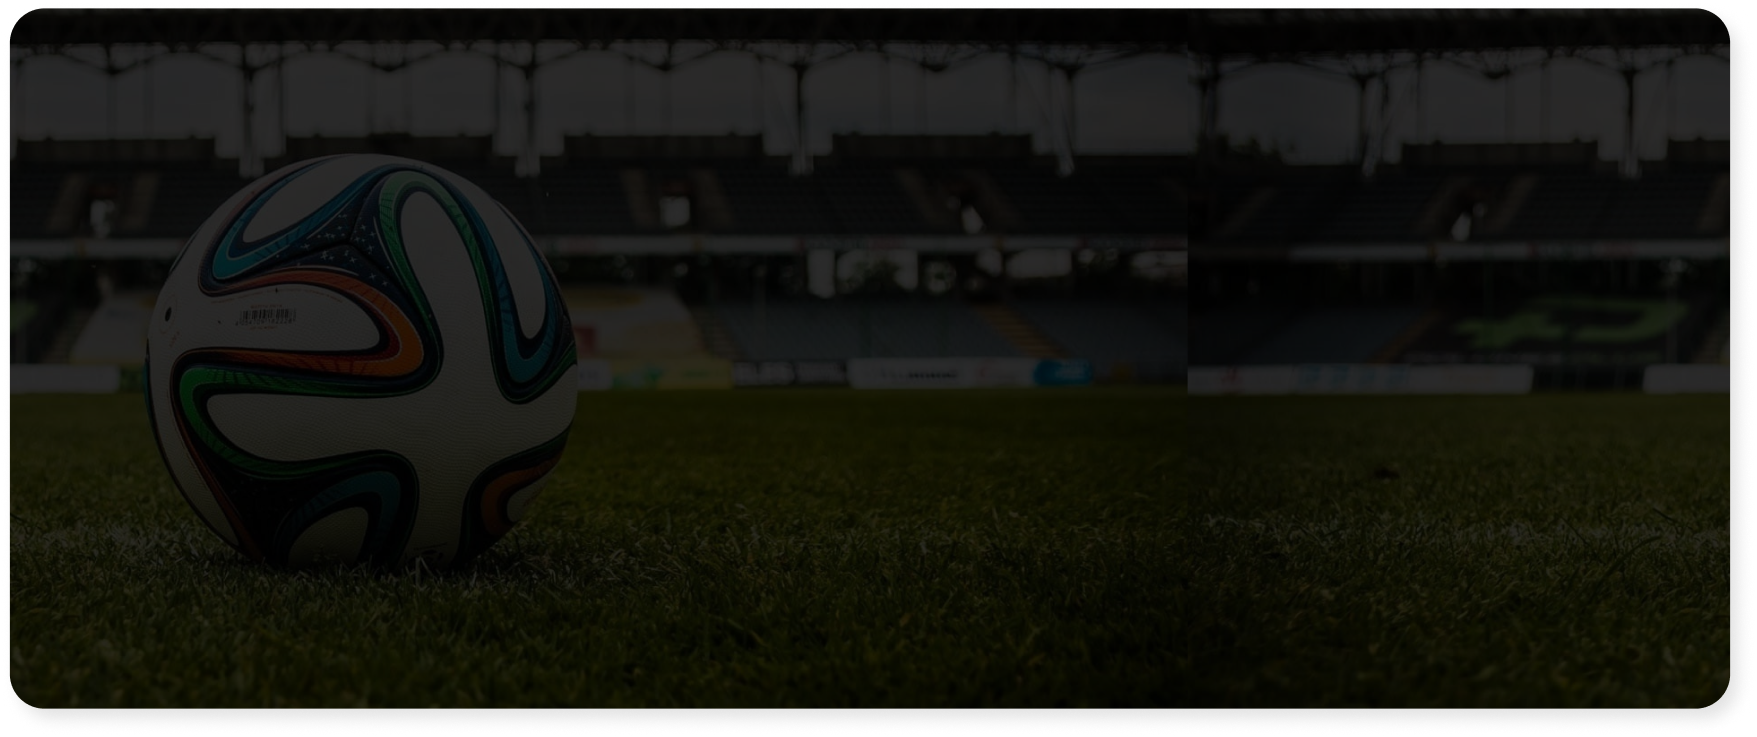
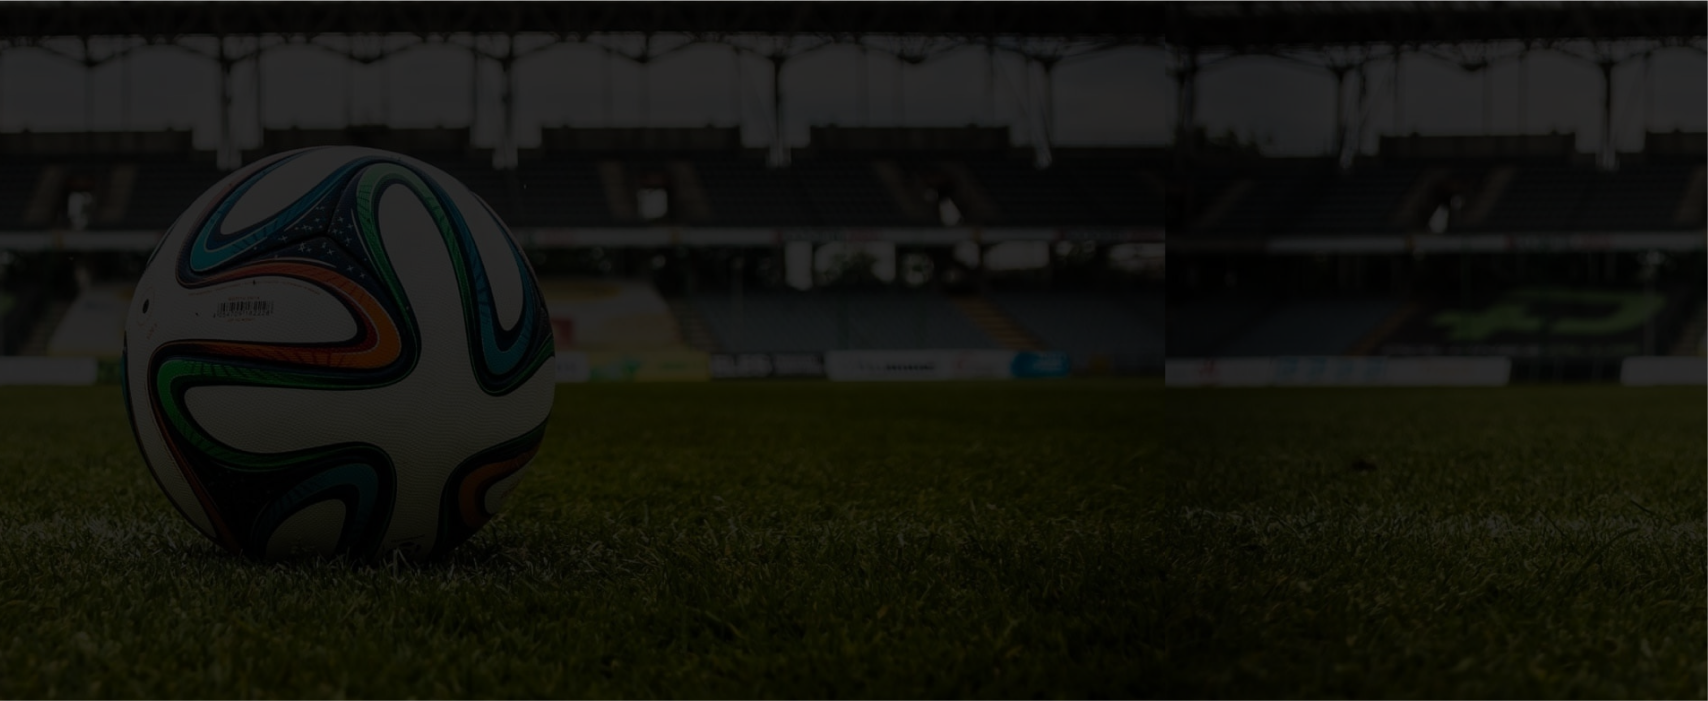
update: qu-section updated

diff --git a/frontend/sections/SevicesSecion.tsx b/frontend/sections/SevicesSecion.tsx
@@ -52,7 +52,7 @@ const SevicesSecion = () => {
         src="/images/banners/banner-1.png"
       />
 
-      <div className="relative z-10 mx-auto -mt-12 max-w-5xl rounded-3xl bg-white p-4 text-center">
+      <div className="relative z-10 mx-auto mt-4 max-w-5xl rounded-3xl bg-white p-4 text-center md:-mt-12">
         <Carousel
           ssr
           infinite
@@ -71,7 +71,7 @@ const SevicesSecion = () => {
                 src={image}
                 className="mx-auto h-8 drop-shadow md:h-14"
               />
-              <p className="mt-2"> {text}</p>
+              <p className="mt-2 text-sm">{text}</p>
             </div>
           ))}
         </Carousel>

diff --git a/frontend/sections/QrBannerSection.tsx b/frontend/sections/QrBannerSection.tsx
@@ -46,7 +46,7 @@ const QrBannerSection = () => {
           width={224}
           height={224}
           className="mx-auto w-56"
-          src="/images/banners/player-login-qr-code.png"
+          src="/images/banners/player-login-qr-code.svg"
         />
         <p>OR</p>
         <LinkButton href="/register-player " className="mt-4">
